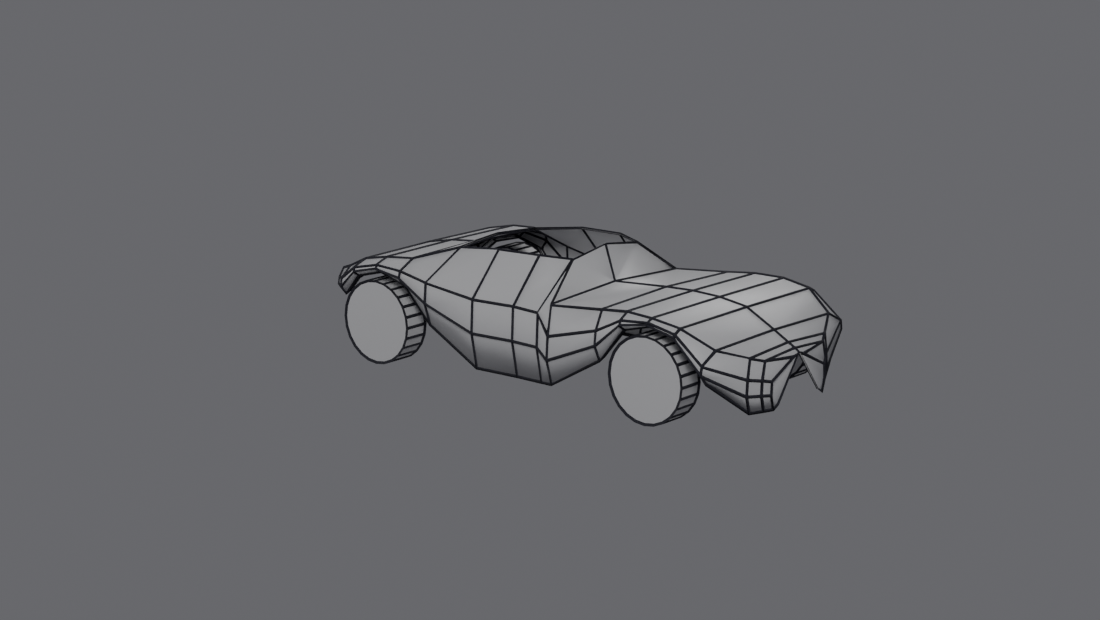
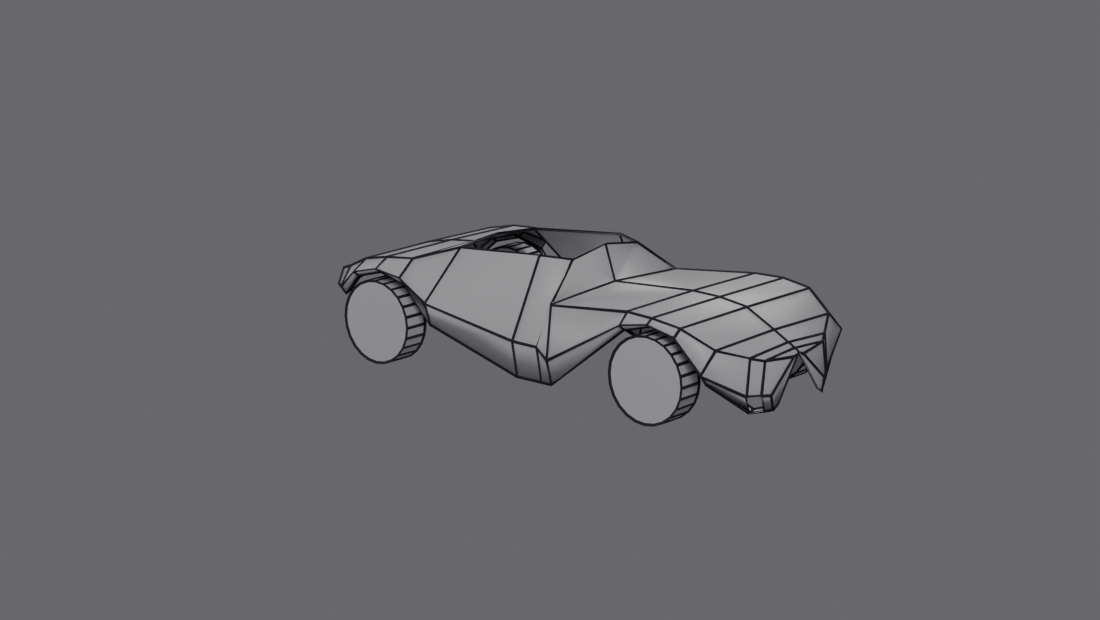
Cut the grille and side intake, then prune the cage they made redundant
Generalises the aperture system so openings are declared by x-range and the
ring they sit above, addressed by name rather than index so they survive
pruning. Adds the lower front intake and the scoop ahead of the rear arch to
the cockpit opening already there.

Cutting the openings makes the cage smaller, not larger, which is the whole
point: rings and stations that existed only to shape a region which is now a
hole stop earning their place. Removes the shoulder ring and the stations at
x = 0.850 and -0.400. Cage goes from 87 faces and 108 vertices to 58 and 79,
with length, width, height and both arch clearances unchanged.

Each removal was tested on its own. Envelope measurements alone could not
settle the shoulder ring — they cannot see a design line disappear — so it went
only after rendering with and without confirmed the surface read the same. It
sat 1.5% inboard of the character line, and the two were fighting.

Claude-Session: https://claude.ai/code/session_01Xx3q3FEn98y7dLvRCxTUeL

diff --git a/models/car_blockout.py b/models/car_blockout.py
@@ -57,33 +57,66 @@ PROPORTIONS = {
 # creased character line reads as damage rather than as a design line. Nothing
 # else is creased, and nothing else exists: between the outlines the surface is
 # a single smooth span.
-RING = {"top_centre": 0, "top_edge": 1, "shoulder": 2,
-        "character": 3, "sill": 4, "lip_inner": 5}
+# Rings down the side, outboard from the centreline. ACTIVE_RINGS is what
+# actually gets built — a ring can be dropped from it and the creases still
+# resolve, because they are keyed by name rather than by index.
+# "shoulder" is deliberately absent. Once the apertures were cut it measured as
+# costing 1mm of width for 17 faces and 18 vertices, and rendering with and
+# without confirmed the surface reads the same — better, in fact, since it sat
+# only 1.5% inboard of the character line and the two were fighting. Envelope
+# measurements alone would not have settled it: they cannot see a design line
+# disappear, so the renders were compared before it went.
+RING_ORDER = ["top_centre", "top_edge", "shoulder", "character", "sill", "lip_inner"]
+ACTIVE_RINGS = ["top_centre", "top_edge", "character", "sill", "lip_inner"]
 
 # Tuned against the crease values recovered from Concept_Model_WIP4.blend,
 # which run far harder than first assumed: 45% of edges creased, median 0.99,
 # and two thirds of the creased edges at 0.90 or above. Matching that profile
 # means the outline AND the character line are effectively hard, with only the
 # shoulder and top edge left partial.
-# The cockpit aperture: the band between the centreline and the top-surface
-# edge is left open through the cabin, so the canopy can be separate glass —
-# which is also the order the body is built in, glass shrinkwrapped on after
-# the body form settles.
-COCKPIT = (-0.90, 0.30)
+# Apertures cut out of the shell. `rings` names the band(s) of faces to leave
+# unbuilt, indexed by the ring below them: 0 spans centreline to top edge,
+# 1 top edge to shoulder, 2 shoulder to character, 3 character to sill,
+# 4 sill to the wheel-well lip.
+#
+# Cutting these REDUCES the cage. Stations and rings that existed only to
+# shape a region which is now a hole stop earning their place, so the count
+# should fall as the openings go in, not climb.
+APERTURES = [
+    # Canopy opening, so the glass can be a separate shrinkwrapped patch.
+    {"name": "cockpit",     "x": (-0.90,  0.30), "rings": ("top_centre",)},
+    # Lower front intake.
+    {"name": "grille",      "x": ( 1.97,  2.05), "rings": ("character",)},
+    # Scoop ahead of the rear arch.
+    {"name": "side_intake", "x": (-1.11, -0.84), "rings": ("character",)},
+]
 
 
 def _skip(x0, x1, ring):
-    lo, hi = COCKPIT
-    return ring == 0 and lo <= x0 <= hi and lo <= x1 <= hi
+    """`ring` indexes the band of faces above ring index `ring`. Apertures name
+    the ring BELOW their band by name, so they survive ring pruning."""
+    for ap in APERTURES:
+        lo, hi = ap["x"]
+        if not (lo <= x0 <= hi and lo <= x1 <= hi):
+            continue
+        for name in ap["rings"]:
+            if name in ACTIVE_RINGS and ACTIVE_RINGS.index(name) == ring:
+                return True
+    return False
 
 
-CREASES = {
-    RING["lip_inner"]: 1.00,
-    RING["sill"]:      0.99,
-    RING["character"]: 0.99,
-    RING["shoulder"]:  0.45,
-    RING["top_edge"]:  0.33,
+CREASE_BY_NAME = {
+    "lip_inner": 1.00,
+    "sill":      0.99,
+    "character": 0.99,
+    "shoulder":  0.45,
+    "top_edge":  0.33,
 }
+
+
+def creases():
+    return {ACTIVE_RINGS.index(n): v for n, v in CREASE_BY_NAME.items()
+            if n in ACTIVE_RINGS}
 
 
 # Body profile sampled off Concept_Model_WIP4.blend:
@@ -110,12 +143,12 @@ PROFILE = [
     ( 1.850, 0.622, 0.720, 0.898, 0.091),
     ( 1.600, 0.755, 0.817, 0.893, 0.091),
     ( 1.351, 0.791, 0.828, 0.893, 0.091),   # front axle
+    # Stations at x = 0.850 and -0.400 removed: both sat on smooth runs and
+    # cost nothing measurable once tested one at a time.
     ( 1.100, 0.800, 0.797, 0.894, 0.091),
-    ( 0.850, 0.791, 0.782, 0.870, 0.095),
     ( 0.350, 0.759, 0.775, 0.826, 0.095),   # cowl, base of the screen
     ( 0.250, 1.049, 0.394, 0.824, 0.095),   # top of the screen
     ( 0.000, 1.063, 0.494, 0.818, 0.095),   # canopy crown, mid-wheelbase
-    (-0.400, 1.052, 0.509, 0.834, 0.095),
     (-0.850, 0.970, 0.449, 0.875, 0.095),
     (-1.100, 0.870, 0.739, 0.900, 0.091),
     (-1.351, 0.844, 0.766, 0.900, 0.091),   # rear axle
@@ -174,14 +207,15 @@ def station_rings(row, p=None):
     sill_z = sill_height(row["x"], p)
     top_z, wide = row["top_z"], row["wide_w"]
     span = max(top_z - sill_z, 1e-4)
-    return [
-        (0.0, top_z),
-        (-row["edge_w"],       top_z - span * TOP_EDGE_F),
-        (-wide * SHOULDER_W,   sill_z + span * SHOULDER_F),
-        (-wide,                sill_z + span * CHARACTER_F),
-        (-wide * SILL_W,       sill_z),
-        (-(wide * SILL_W - p["lip_inboard"]), sill_z + p["lip_rise"]),
-    ]
+    full = {
+        "top_centre": (0.0, top_z),
+        "top_edge":   (-row["edge_w"],     top_z - span * TOP_EDGE_F),
+        "shoulder":   (-wide * SHOULDER_W, sill_z + span * SHOULDER_F),
+        "character":  (-wide,              sill_z + span * CHARACTER_F),
+        "sill":       (-wide * SILL_W,     sill_z),
+        "lip_inner":  (-(wide * SILL_W - p["lip_inboard"]), sill_z + p["lip_rise"]),
+    }
+    return [full[name] for name in ACTIVE_RINGS]
 
 
 def check_folds(p=None):
@@ -203,7 +237,7 @@ def build(p=None, ground=True):
     bpy.context.scene.unit_settings.system = 'METRIC'
 
     me = bpy.data.meshes.new("body_side")
-    bm = vehicle_cage.build_cage(STATIONS, lambda r: station_rings(r, p), CREASES,
+    bm = vehicle_cage.build_cage(STATIONS, lambda r: station_rings(r, p), creases(),
                                  cap_ends=True, skip=_skip)
     bm.to_mesh(me)
     bm.free()

diff --git a/docs/workflow-lessons.md b/docs/workflow-lessons.md
@@ -53,6 +53,17 @@ both sides. Modifier order is Mirror then Subsurf, and the mirror needs
 clipping on so the centreline seam welds instead of splitting open under
 subdivision.
 
+**Cutting the openings SHRINKS the cage (2026-09-02, their point).** Once the
+glass aperture, grille and side intake are cut, rings and stations that existed
+only to shape those regions stop earning their place. Prune after cutting, not
+before: 87 faces / 108 verts went to 58 / 79 with the envelope unchanged.
+
+Prune by measuring one removal at a time — but envelope numbers alone cannot
+settle it, because they are blind to a design line vanishing. The "shoulder"
+ring measured as costing 1mm of width; it was only dropped after rendering with
+and without and confirming the surface read the same. It sat 1.5% inboard of
+the character line and the two were fighting each other.
+
 **Their `body` object is an OPEN hard-surface shell, not a closed volume
 (2026-09-02).** Rendered on its own it has huge see-through wheel-arch cutouts,
 a thin blade sill, no roof — the canopy is separate `Glass` and
